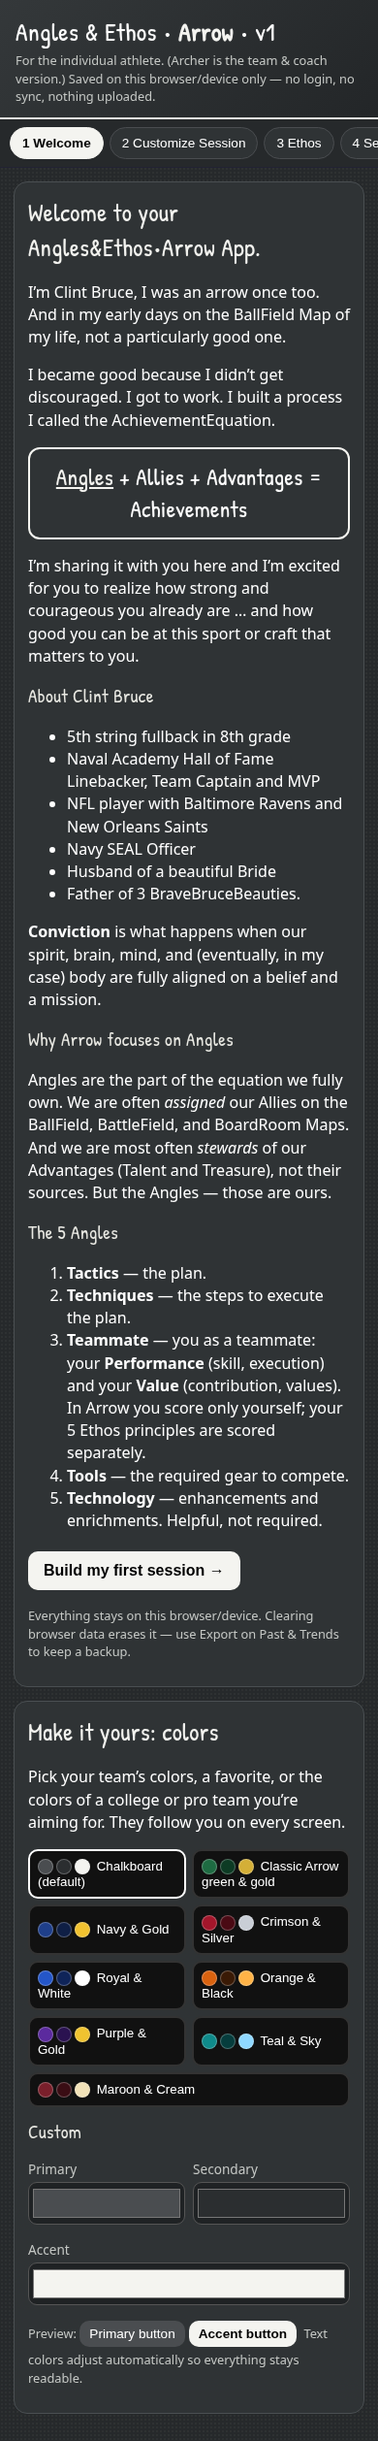
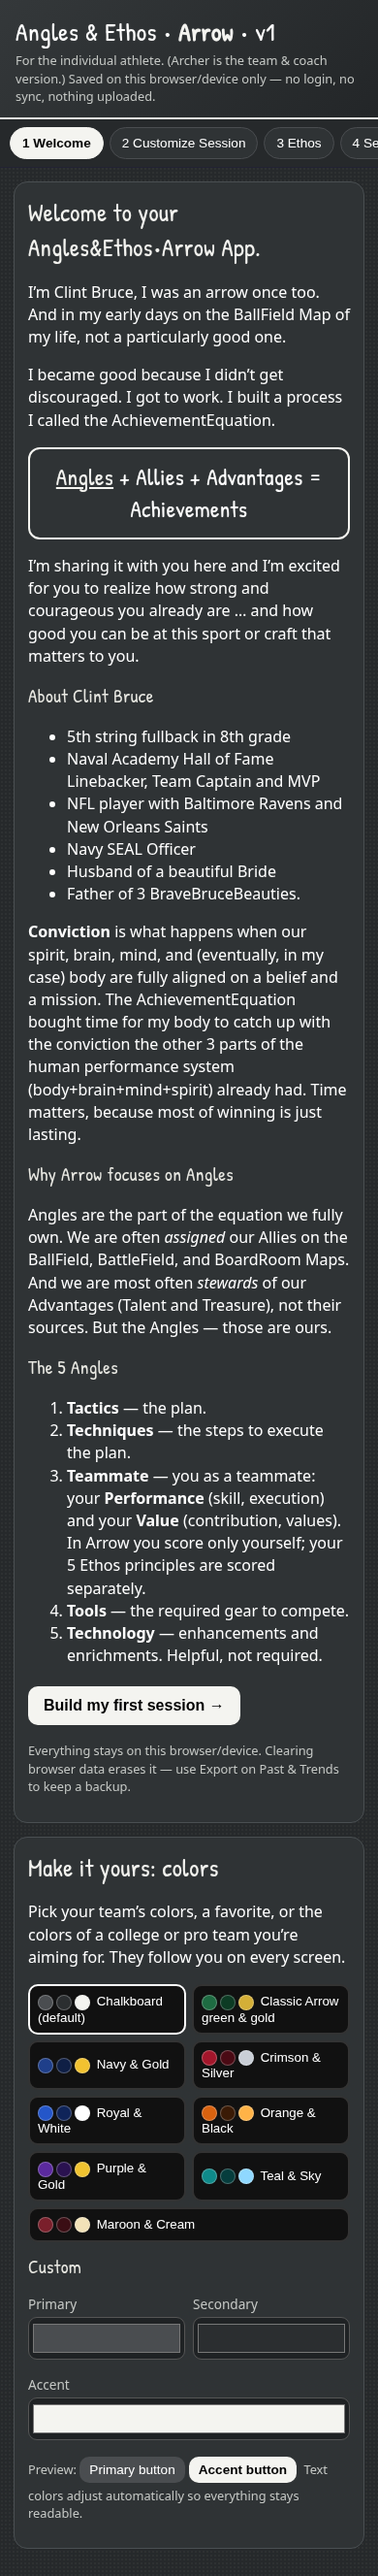
Add conviction sentences

Changed region(s): [[0.0, 0.0, 1.0, 0.9921]]

diff --git a/index.html b/index.html
@@ -88,7 +88,7 @@ function vWelcome(){return `<div class="card"><h2>Welcome to your Angles&amp;Eth
 <p>I’m sharing it with you here and I’m excited for you to realize how strong and courageous you already are … and how good you can be at this sport or craft that matters to you.</p>
 <div id="bio"><h3>About Clint Bruce</h3><ul>
 <li>5th string fullback in 8th grade</li><li>Naval Academy Hall of Fame Linebacker, Team Captain and MVP</li><li>NFL player with Baltimore Ravens and New Orleans Saints</li><li>Navy SEAL Officer</li><li>Husband of a beautiful Bride</li><li>Father of 3 BraveBruceBeauties.</li></ul></div>
-<p><b>Conviction</b> is what happens when our spirit, brain, mind, and (eventually, in my case) body are fully aligned on a belief and a mission.</p>
+<p><b>Conviction</b> is what happens when our spirit, brain, mind, and (eventually, in my case) body are fully aligned on a belief and a mission. The AchievementEquation bought time for my body to catch up with the conviction the other 3 parts of the human performance system (body+brain+mind+spirit) already had. Time matters, because most of winning is just lasting.</p>
 <h3>Why Arrow focuses on Angles</h3>
 <p>Angles are the part of the equation we fully own. We are often <i>assigned</i> our Allies on the BallField, BattleField, and BoardRoom Maps. And we are most often <i>stewards</i> of our Advantages (Talent and Treasure), not their sources. But the Angles — those are ours.</p>
 <h3>The 5 Angles</h3><ol>

diff --git a/test.py b/test.py
@@ -120,3 +120,12 @@ with sync_playwright() as p:
     if vp['width']==390: pg.screenshot(path='shots/arrow-chalk-font.png',clip={'x':0,'y':0,'width':390,'height':700})
     pg.click('text=Build my first session'); assert 'Patrick' not in pg.evaluate("getComputedStyle(document.querySelector('#nm')).fontFamily")
     print('font ok'); pg.close()
+T='The AchievementEquation bought time for my body to catch up with the conviction the other 3 parts of the human performance system (body+brain+mind+spirit) already had. Time matters, because most of winning is just lasting.'
+with sync_playwright() as p:
+  b=p.chromium.launch(executable_path='/usr/bin/google-chrome',args=['--no-sandbox'])
+  for vp in [{'width':390,'height':844},{'width':1280,'height':900}]:
+    pg=b.new_page(viewport=vp); e=[]; pg.on('pageerror',lambda x:e.append(str(x)))
+    pg.goto(url); pg.evaluate('localStorage.clear()'); pg.reload(); t=pg.inner_text('main')
+    assert t.count(T)==1 and t.index('a belief and a mission. '+T)>0
+    assert pg.evaluate('document.documentElement.scrollWidth')<=vp['width']
+    print('conv ok',e); pg.close()
